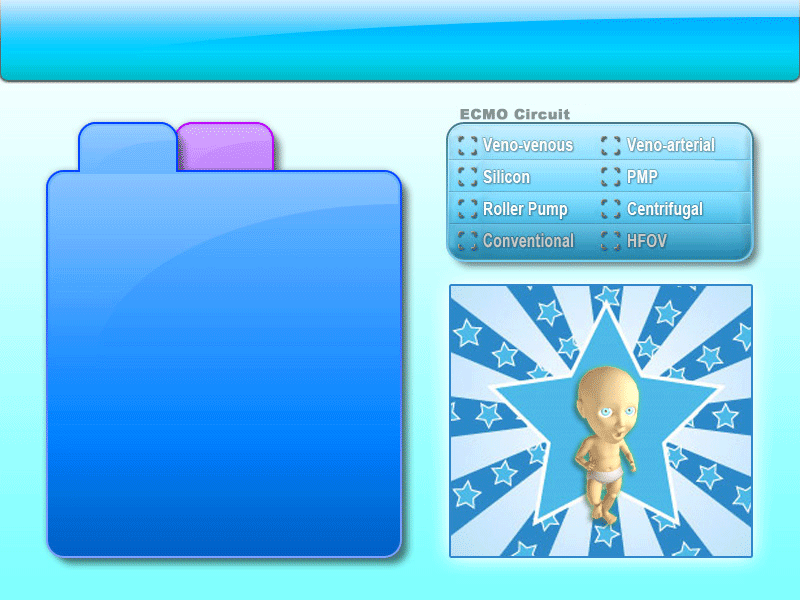
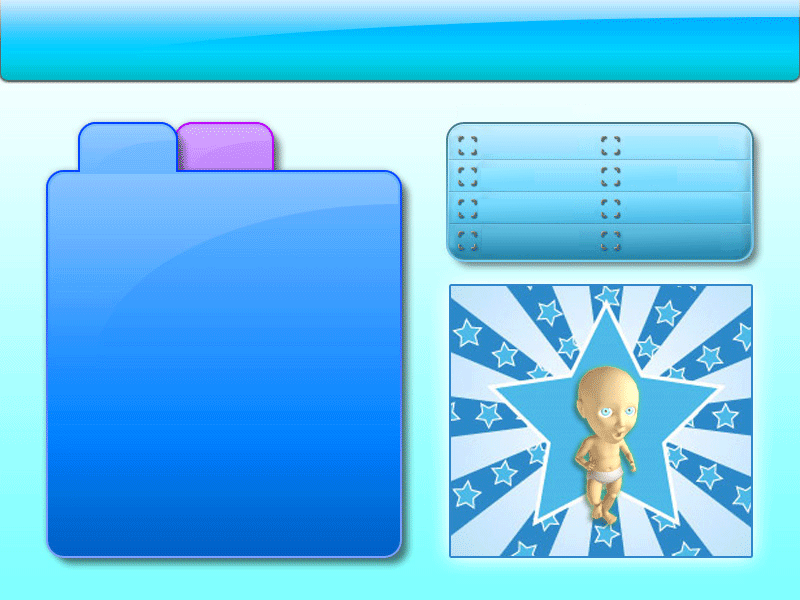
Conversion i18n menu state panel: label, component select, tabs
git-svn-id: https://ecmojo.svn.sourceforge.net/svnroot/ecmojo@700 6adee215-725e-4b28-87c1-af44a2b16021

diff --git a/trunk/app/src/main/java/edu/hawaii/jabsom/tri/ecmo/app/state/MenuStatePanel.java b/trunk/app/src/main/java/edu/hawaii/jabsom/tri/ecmo/app/state/MenuStatePanel.java
@@ -51,8 +51,8 @@ import king.lib.util.Translator;
 public class MenuStatePanel extends JPanel implements KeyEventDispatcher {
 
   /** The panel image. */
-  private Image background = ImageLoader.getInstance().getImage(
-      Translator.getString("image.menubase[i18n]: conf/image/interface/menu/Base.png"));
+  private Image background = ImageLoader.getInstance().getImage("conf/image/interface/menu/Base.png");
+//      Translator.getString("image.menubase[i18n]: conf/image/interface/menu/Base.png"));
 
   /** The state. */
   private MenuState state;
@@ -115,24 +115,6 @@ public class MenuStatePanel extends JPanel implements KeyEventDispatcher {
     aboutButton.setLocation(570, 18);
     aboutButton.setSize(120, 48);
     add(aboutButton);
-
-//    // add contact button
-//    Image contactNormalImage = ImageLoader.getInstance().getImage(
-//        Translator.getString("image.ButtonContact[i18n]: conf/image/interface/menu/Btn-Contact.png"));
-//    Image contactRolloverImage = ImageLoader.getInstance().getImage(
-//        Translator.getString("image.ButtonContactRol[i18n]: conf/image/interface/menu/Btn-ContactRol.png"));
-//    Image contactSelectedImage = ImageLoader.getInstance().getImage(
-//        Translator.getString("image.ButtonContactSel[i18n]: conf/image/interface/menu/Btn-ContactSel.png"));
-//    ImageButton contactButton = new ImageButton(contactNormalImage, contactRolloverImage, contactSelectedImage);
-//    contactButton.addActionListener(new ActionListener() {
-//      public void actionPerformed(ActionEvent arg0) {
-//        // and help
-//        state.contactState();
-//      }      
-//    });
-//    contactButton.setLocation(680, 18);
-//    contactButton.setSize(120, 48);
-//    add(contactButton);
     
     // add language select combobox
     String[] langStrings = Configuration.getInstance().getAvailableLanguages();
@@ -163,12 +145,8 @@ public class MenuStatePanel extends JPanel implements KeyEventDispatcher {
     // button group
     ButtonGroup buttonGroup = new ButtonGroup();
     
-    // add scenario toogle button
+    // add scenario toggle button
     String sScenario = Translator.getString("text.Scenario[i18n]: Scenario");
-    Image scenarioNormalImage = ImageLoader.getInstance().getImage(
-        Translator.getString("image.ButtonScenario[i18n]: conf/image/interface/menu/Btn-Scenario.png"));
-    Image scenarioRolloverImage = ImageLoader.getInstance().getImage(
-        Translator.getString("image.ButtonScenarioRol[i18n]: conf/image/interface/menu/Btn-ScenarioRol.png"));
     TextToggleButton scenarioButton 
         = new TextToggleButton(sScenario, Color.WHITE, Color.GREEN, Color.WHITE);
     scenarioButton.addActionListener(new ActionListener() {
@@ -183,24 +161,21 @@ public class MenuStatePanel extends JPanel implements KeyEventDispatcher {
     add(scenarioButton);
     buttonGroup.add(scenarioButton);
 
-    // add simulation toogle button
-    Image simulNormalImage = ImageLoader.getInstance().getImage(
-        Translator.getString("image.ButtonSimulation[i18n]: conf/image/interface/menu/Btn-Simulation.png"));
-    Image simulRolloverImage = ImageLoader.getInstance().getImage(
-        Translator.getString("image.ButtonSimulationRol[i18n]: conf/image/interface/menu/Btn-SimulationRol.png"));
-    ImageToggleButton simulButton 
-        = new ImageToggleButton(simulNormalImage, simulRolloverImage, simulNormalImage);
-    simulButton.addActionListener(new ActionListener() {
+    // add simulation toggle button
+    String sSimulation = Translator.getString("text.Simulation[i18n]: Simulation");
+    TextToggleButton simulationButton 
+        = new TextToggleButton(sSimulation, Color.WHITE, Color.GREEN, Color.WHITE);
+    simulationButton.addActionListener(new ActionListener() {
       public void actionPerformed(ActionEvent arg0) {
         // activate the correct panel
         simulationListPanel.setVisible(true);
         scenarioListPanel.setVisible(false);
       }
     });
-    simulButton.setSize(96, 40);
-    simulButton.setLocation(176, 130);
-    add(simulButton);
-    buttonGroup.add(simulButton);
+    simulationButton.setSize(96, 40);
+    simulationButton.setLocation(176, 130);
+    add(simulationButton);
+    buttonGroup.add(simulationButton);
    
     // add scenario list panel
     scenarioListPanel = new ScenarioListPanel(state.getScenarios());
@@ -258,20 +233,20 @@ public class MenuStatePanel extends JPanel implements KeyEventDispatcher {
     else {
       vaRadio.setSelected(true);
     }
-    // TODO: add text label for Mode button group
-//    TextLabel textLabelVV = new TextLabel(Translator.getString("label.modeVV[i18n]: Veno-venous"));
-//    textLabelVV.setHorizontalAlignment(JLabel.LEFT);
-//    textLabelVV.setFont(textLabel.getFont().deriveFont(Font.BOLD, 14f)); 
-//    textLabelVV.setLocation(32, 15);
-//    textLabelVV.setSize(120, 45);
-//    componentSelectionPanel.add(textLabelVV);
-//    TextLabel textLabelVA = new TextLabel(Translator.getString("label.modeVA[i18n]: Veno-arterial"));
-//    textLabelVA.setHorizontalAlignment(JLabel.LEFT);
-//    textLabelVA.setFont(textLabel.getFont().deriveFont(Font.BOLD, 14f)); 
-//    textLabelVA.setLocation(174, 15);
-//    textLabelVA.setSize(120, 45);
-//    componentSelectionPanel.add(textLabelVA);
-    
+    // add label: Mode VV or VA i18n
+    JLabel lblModeVV = new TextLabel(Translator.getString("label.ModeVV[i18n]: Veno-venous"));
+    lblModeVV.setHorizontalAlignment(JLabel.LEFT);
+    lblModeVV.setFont(textLabel.getFont().deriveFont(Font.BOLD, 14f));
+    lblModeVV.setLocation(32, 15);
+    lblModeVV.setSize(120, 45);
+    componentSelectionPanel.add(lblModeVV);
+    JLabel lblModeVA = new TextLabel(Translator.getString("label.ModeVA[i18n]: Veno-arterial"));
+    lblModeVA.setHorizontalAlignment(JLabel.LEFT);
+    lblModeVA.setFont(textLabel.getFont().deriveFont(Font.BOLD, 14f));
+    lblModeVA.setLocation(174, 15);
+    lblModeVA.setSize(120, 45);
+    componentSelectionPanel.add(lblModeVA);
+
     ButtonGroup oxygenatorButtonGroup = new ButtonGroup();
     Image sciMedRadioRolloverImage 
       = ImageLoader.getInstance().getImage("conf/image/interface/game/Btn-CheckmarkRol.png");
@@ -299,6 +274,19 @@ public class MenuStatePanel extends JPanel implements KeyEventDispatcher {
     else {
       quadroxDRadio.setSelected(true);
     }
+    // add label: Oxygenator Silicon or PMP i18n
+    JLabel lblOxySil = new TextLabel(Translator.getString("label.OxySil[i18n]: Silicon"));
+    lblOxySil.setHorizontalAlignment(JLabel.LEFT);
+    lblOxySil.setFont(textLabel.getFont().deriveFont(Font.BOLD, 14f));
+    lblOxySil.setLocation(32, 48);
+    lblOxySil.setSize(120, 45);
+    componentSelectionPanel.add(lblOxySil);
+    JLabel lblOxyPMP = new TextLabel(Translator.getString("label.OxyPMP[i18n]: PMP"));
+    lblOxyPMP.setHorizontalAlignment(JLabel.LEFT);
+    lblOxyPMP.setFont(textLabel.getFont().deriveFont(Font.BOLD, 14f));
+    lblOxyPMP.setLocation(174, 48);
+    lblOxyPMP.setSize(120, 45);
+    componentSelectionPanel.add(lblOxyPMP);
     
     ButtonGroup pumpButtonGroup = new ButtonGroup();
     Image rollerRadioRolloverImage 
@@ -327,12 +315,38 @@ public class MenuStatePanel extends JPanel implements KeyEventDispatcher {
     else {
       centrifugalRadio.setSelected(true);
     }
-
+    // add label: Pump roller or centrifugal i18n
+    JLabel lblPumpRol = new TextLabel(Translator.getString("label.PumpRol[i18n]: Roller Pump"));
+    lblPumpRol.setHorizontalAlignment(JLabel.LEFT);
+    lblPumpRol.setFont(textLabel.getFont().deriveFont(Font.BOLD, 13f));
+    lblPumpRol.setLocation(30, 80);
+    lblPumpRol.setSize(120, 45);
+    componentSelectionPanel.add(lblPumpRol);
+    JLabel lblPumpCen = new TextLabel(Translator.getString("label.PumpCen[i18n]: Centrifugal"));
+    lblPumpCen.setHorizontalAlignment(JLabel.LEFT);
+    lblPumpCen.setFont(textLabel.getFont().deriveFont(Font.BOLD, 13f));
+    lblPumpCen.setLocation(174, 80);
+    lblPumpCen.setSize(120, 45);
+    componentSelectionPanel.add(lblPumpCen);
+    
     Icon disabled = new ImageIcon(ImageLoader.getInstance().getImage("conf/image/interface/game/Btn-CheckmarkDis.png"));
     JLabel ventilatorCheckmark = new JLabel(disabled);
     ventilatorCheckmark.setSize(32, 32);
     ventilatorCheckmark.setLocation(0, 103);
     componentSelectionPanel.add(ventilatorCheckmark);
+    // add label: Ventilator conventional or HFOV i18n
+    JLabel lblVentCon = new TextLabel(Translator.getString("label.VentCon[i18n]: Conventional"));
+    lblVentCon.setHorizontalAlignment(JLabel.LEFT);
+    lblVentCon.setFont(textLabel.getFont().deriveFont(Font.BOLD, 14f));
+    lblVentCon.setLocation(30, 111);
+    lblVentCon.setSize(120, 45);
+    componentSelectionPanel.add(lblVentCon);
+    JLabel lblVentHFOV = new TextLabel(Translator.getString("label.VentHFOV[i18n]: HFOV"));
+    lblVentHFOV.setHorizontalAlignment(JLabel.LEFT);
+    lblVentHFOV.setFont(textLabel.getFont().deriveFont(Font.BOLD, 14f));
+    lblVentHFOV.setLocation(174, 111);
+    lblVentHFOV.setSize(120, 45);
+    componentSelectionPanel.add(lblVentHFOV);
     
     // add scenario selection listener
     ScenarioSelectionListener scenarioSelectionListener = new ScenarioSelectionListener() {
@@ -414,7 +428,7 @@ public class MenuStatePanel extends JPanel implements KeyEventDispatcher {
     boolean scenarioSelection = Configuration.getInstance().isSelectionScenarioTab();
     scenarioButton.setSelected(scenarioSelection);
     scenarioListPanel.setVisible(scenarioSelection);
-    simulButton.setSelected(!scenarioSelection);
+    simulationButton.setSelected(!scenarioSelection);
     simulationListPanel.setVisible(!scenarioSelection);
   }
   

diff --git a/trunk/app/src/main/java/edu/hawaii/jabsom/tri/ecmo/app/gui/TextToggleButton.java b/trunk/app/src/main/java/edu/hawaii/jabsom/tri/ecmo/app/gui/TextToggleButton.java
@@ -1,0 +1,165 @@
+package edu.hawaii.jabsom.tri.ecmo.app.gui;
+
+import java.awt.Color;
+//import java.awt.Dimension;
+import java.awt.Graphics;
+//import java.awt.Image;
+
+import javax.swing.JToggleButton;
+
+/**
+ * Represents an textual type toggle button. 
+ *
+ * @author    king 
+ * @since     August 22, 2007
+ */
+public class TextToggleButton extends JToggleButton {
+  
+  /** Text for button to color. */
+  private String text;
+  /** Color for normal state. */
+  private Color normal;
+  /** Color for rollover non toggle state. */
+  private Color rolloverNonToggle;
+  /** Color for rollover toggle state. */
+  private Color rolloverToggle;
+  /** Color for pressed state. */
+  private Color pressed;
+  
+  /** The text y offset for normal. */
+  private int normalYOffset;
+  /** The text y offset for rollover non toggle. */
+  private int rolloverNonToggleYOffset;
+  /** The text y offset for rollover toggle. */
+  private int rolloverToggleYOffset;
+  /** The text y offset for pressed. */
+  private int pressedYOffset;
+
+  
+  /**
+   * Constructor for the button.
+   * 
+   * @param text  The text for button to color.
+   * @param normal  The color for the normal state.
+   * @param rollover  The color for the rollover state.
+   * @param pressed  The color for the pressed state.
+   */
+  public TextToggleButton(String text, Color normal, Color rollover, Color pressed) {
+    this(text, normal, rollover, rollover, pressed);
+  }
+  
+  /**
+   * Constructor for the button.
+   * 
+   * @param text  The text for button to color.
+   * @param normal  The color for the normal state.
+   * @param rolloverNonToggle  The color for the rollover state.
+   * @param rolloverToggle  The color for the rollover state.
+   * @param pressed  The color for the pressed state.
+   */
+  public TextToggleButton(String text
+                         , Color normal, Color rolloverNonToggle
+                         , Color rolloverToggle, Color pressed) {
+    this(text, normal, 0, rolloverNonToggle, 0, rolloverToggle, 0, pressed, 0);
+  }
+  
+  /**
+   * Constructor for the button.
+   * 
+   * @param text  The text for the button to color.
+   * @param normal  The color for the normal state.
+   * @param normalYOffset  Y offset for normal.
+   * @param rolloverNonToggle  The color for the rollover non toggle state.
+   * @param rolloverNonToggleYOffset  Y offset for rollover non toggle.
+   * @param rolloverToggle  The color for the rollover toggle state.
+   * @param rolloverToggleYOffset  Y offset for rollover toggle.
+   * @param pressed  The color for the pressed state.
+   * @param pressedYOffset  Y offset for pressed.
+   */
+  public TextToggleButton(String text
+                         , Color normal, int normalYOffset
+                         , Color rolloverNonToggle, int rolloverNonToggleYOffset
+                         , Color rolloverToggle, int rolloverToggleYOffset
+                         , Color pressed, int pressedYOffset) {
+    this.text = text;
+    this.normal = normal;
+    this.normalYOffset = normalYOffset;
+    this.rolloverNonToggle = rolloverNonToggle;
+    this.rolloverNonToggleYOffset = rolloverNonToggleYOffset;
+    this.rolloverToggle = rolloverToggle;
+    this.rolloverToggleYOffset = rolloverToggleYOffset;
+    this.pressed = pressed;
+    this.pressedYOffset = pressedYOffset;
+    
+    // set transparent
+    setOpaque(false);
+    setBorderPainted(false);
+    
+    setText(this.text);
+    
+//    // set the size based on image
+//    Dimension size = new Dimension(getWidth(this), getHeight(this));
+//    setSize(size);
+//    setPreferredSize(size);
+//    setMinimumSize(size);
+//    setMaximumSize(size);
+    
+    // Enable rollover
+    setRolloverEnabled(true);
+  }
+
+  /**
+   * Draws this component.
+   *
+   * @param g  Graphics context.
+   */
+  public void paintComponent(Graphics g) {
+    super.paintComponent(g);
+   
+    int width = getSize().width;
+    int height = getSize().height;
+//    int imageWidth = this.pressed.getWidth(this);
+//    int imageHeight = this.pressed.getHeight(this);
+    
+    // highlight depending on rollover or button pressed
+    if (isEnabled()) {
+      // g.setColor(getForeground());
+      g.setColor(this.normal);
+    }
+    else {
+      // g.setColor(getForeground().darker());
+      g.setColor(this.normal.darker());
+    }
+    g.setFont(getFont());
+    int textWidth = g.getFontMetrics().stringWidth(getText());
+    int textHeight = g.getFontMetrics().getHeight();
+    int ascent = g.getFontMetrics().getAscent();
+    int x = (width - textWidth) / 2;
+    int y = (height - textHeight) / 2 + ascent;
+    
+    if (model.isRollover()) {
+      if (model.isSelected()) {
+//        g.drawImage(this.rolloverToggle, (width - imageWidth) / 2, (height - imageHeight) / 2, this);
+        g.setColor(this.rolloverToggle);
+        g.drawString(getText(), x, y + rolloverToggleYOffset);
+      }
+      else {
+//        g.drawImage(this.rolloverNonToggle, (width - imageWidth) / 2, (height - imageHeight) / 2, this);
+        g.setColor(this.rolloverNonToggle);
+        g.drawString(getText(), x, y + rolloverNonToggleYOffset);
+      }
+    }
+    else if (model.isPressed() || isSelected()) {
+//      g.drawImage(this.pressed, (width - imageWidth) / 2, (height - imageHeight) / 2, this);
+      g.setColor(this.pressed);
+      g.drawString(getText(), x, y + pressedYOffset);
+    }
+    else {
+      if (this.normal != null) {
+//        g.drawImage(this.normal, (width - imageWidth) / 2, (height - imageHeight) / 2, this);
+        g.setColor(this.normal);
+      }
+      g.drawString(getText(), x, y + normalYOffset);
+    }
+  }  
+}
